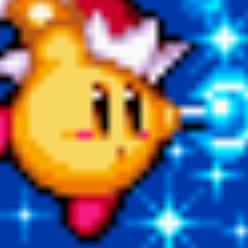
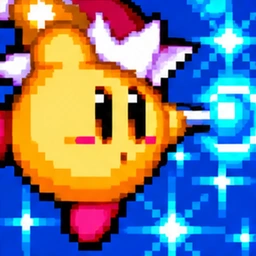
테마 그림 교체: 커비

diff --git a/www/js/shopdata.js b/www/js/shopdata.js
@@ -365,7 +365,7 @@ window.SHOP = {
         2: '에드워드', 4: '알폰스', 8: '로이', 16: '리자', 32: '록벨', 64: '스카', 128: '링 야오',
         256: '란팡', 512: '매스 휴즈', 1024: '러스트', 2048: '글러트니', 4096: '엔비', 8192: '킹'
       } },
-    { id: 'kerby', name: '커비', desc: '커비의 다양한 능력들이에요.', cat: '일본', dir: './images/themes/kerby/', full: true, max: 8192, bigName: '메타나이트', ver: 1,
+    { id: 'kerby', name: '커비', desc: '커비의 다양한 능력들이에요.', cat: '일본', dir: './images/themes/kerby/', full: true, max: 8192, bigName: '메타나이트', ver: 2,
       names: {
         2: '노멀', 4: '빔', 8: '휠', 16: '아이스', 32: '스파크', 64: '파이어', 128: '챔피언',
         256: '카피', 512: '스워드', 1024: '미러', 2048: '쿡', 4096: '락', 8192: '킹'
